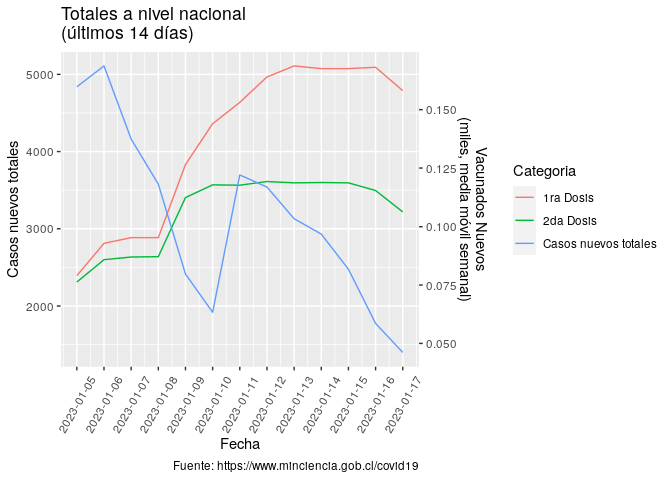
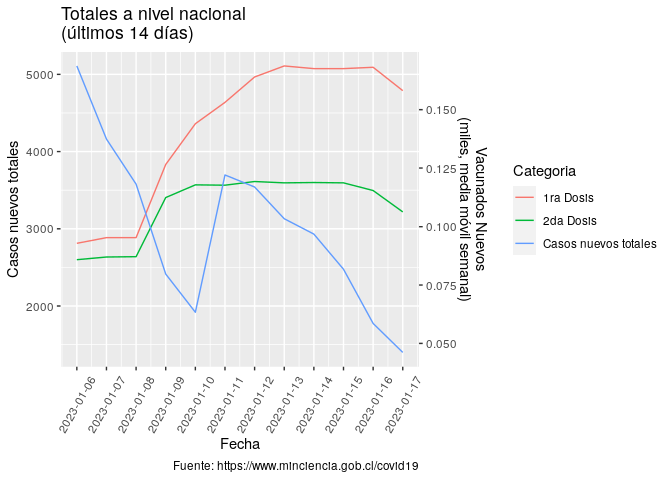
Re-build Rmarkdown files

diff --git a/README.md b/README.md
@@ -3,7 +3,7 @@
 
 Ejemplo de uso de total\_casos de COVID recopilados por el Ministerio de
 Ciencia de Chile <https://www.minciencia.gob.cl/covid19>. Última
-actualización: 2023-01-18
+actualización: 2023-01-19
 
 ## Visualización desde el comienzo de la pandemia
 
